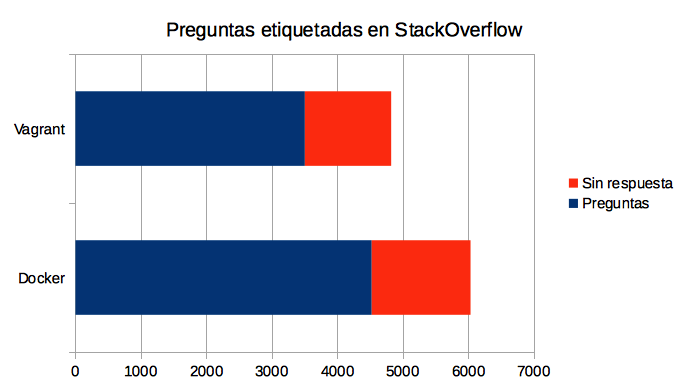
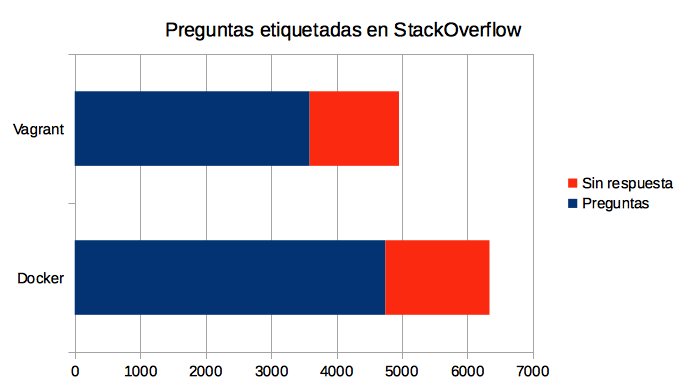
Set images for english.

diff --git a/en/blog/_posts/15-06-30-2015-trends-configuration-management.md b/en/blog/_posts/15-06-30-2015-trends-configuration-management.md
@@ -14,7 +14,7 @@ This paper shows the status of some tools that support the **_SCM_** from the da
 
 ## Software Configuration Management Activities
 
-The classic definition of activities described by **_Roger S. Presman_** in his book **_"Ingeniería de Software: Un enfoque práctico"_** are:
+The classic definition of activities described by **_Roger S. Presman_** in his book **_"Software Engineering: A Practical Approach"_** are:
 
 * Configuration identification
 * Change control
@@ -37,7 +37,7 @@ Both definitions are correct in my opinion, each with its own focus. In this doc
 **_Systems analyzed:_**
 <a target="_blank" href="https://subversion.apache.org/">Subversion</a>, <a href="https://git-scm.com/" target="_blank">Git</a>, <a href="https://mercurial.selenic.com/" target="_blank">Mercurial</a>, <a href="http://www.nongnu.org/cvs/" target="_blank">CVS</a>.
 
-<img src="{{ site.baseurl }}/images/150619/subversion-mercurial-git-cvs.png" title="Sistemas de control de versiones - Google Trends" name="Sistemas de control de versiones - Google Trends" /><img src="{{ site.baseurl }}/images/150619/stackoverflow-versioncontrol-systems.png" title="Sistemas de control de versiones - StackOverflow" name="Sistemas de control de versiones - StackOverflow" />
+<img src="{{ site.baseurl }}/images/150619/subversion-mercurial-git-cvs-en.png" title="Sistemas de control de versiones - Google Trends" name="Sistemas de control de versiones - Google Trends" /><img src="{{ site.baseurl }}/images/150619/stackoverflow-versioncontrol-systems-en.png" title="Sistemas de control de versiones - StackOverflow" name="Sistemas de control de versiones - StackOverflow" />
 
 **_Git_** shows a greater number of registration in both graphs. These values reflect the popularity and acceptance of this system of version control. Among the main features of this system are its integrity of information and speed.
 
@@ -47,7 +47,7 @@ Both definitions are correct in my opinion, each with its own focus. In this doc
 **_Tools analyzed:_**
 <a href="https://wiki.archlinux.org/index.php/Gitosis" target="_blank">Gitosis</a>, <a href="http://gitolite.com/gitolite/index.html" target="_blank">Gitolite</a>.
 
-<img src="{{ site.baseurl }}/images/150619/gitolite-gitosis.png" title="Gitolite-Gitosis - Google Trends" name="Gitolite-Gitosis - Google Trends" /> <img src="{{ site.baseurl }}/images/150619/stackoverflow-gitolite-gitosis.png" title="Gitolite-Gitosis - StackOverflow" name="Gitolite-Gitosis - StackOverflow" />
+<img src="{{ site.baseurl }}/images/150619/gitolite-gitosis-en.png" title="Gitolite-Gitosis - Google Trends" name="Gitolite-Gitosis - Google Trends" /> <img src="{{ site.baseurl }}/images/150619/stackoverflow-gitolite-gitosis-en.png" title="Gitolite-Gitosis - StackOverflow" name="Gitolite-Gitosis - StackOverflow" />
 
 **_Gitolite_** has the greatest records to perform the analysis. The high level of granularity of this system makes it a powerful tool when you want to establish the safety of source code repositories.
 
@@ -87,7 +87,7 @@ Construction tools allow agencies to organize and implement the necessary measur
 **_Tools analyzed:_**
 <a href="http://www.gnu.org/software/make/" target="_blank">Make</a>, <a href="http://ant.apache.org/" target="_blank">Ant</a>, <a href="http://www.scons.org/" target="_blank">Scons</a>, <a href="http://www.cmake.org/" target="_blank">CMake</a>, <a href="https://maven.apache.org/" target="_blank">Maven</a>, <a href="https://gradle.org/" target="_blank">Gradle</a>.
 
-<img src="{{ site.baseurl }}/images/150619/make-ant-maven.png" title="Sistemas de Construcción - Google Trends" name="Sistemas de Construcción - Google Trends" /><img src="{{ site.baseurl }}/images/150619/stackoverflow-buildtools.png" title="Sistemas de Construcción - StackOverflow" name="Sistemas de Construcción - StackOverflow" />
+<img src="{{ site.baseurl }}/images/150619/make-ant-maven-en.png" title="Sistemas de Construcción - Google Trends" name="Sistemas de Construcción - Google Trends" /><img src="{{ site.baseurl }}/images/150619/stackoverflow-buildtools-en.png" title="Sistemas de Construcción - StackOverflow" name="Sistemas de Construcción - StackOverflow" />
 
 **_Maven_** has for some time with the highest popularity. Figures are largely due to the posibility to simply modeling the logic to be constructed. As a suggestion recommend not to lose sight of **_Gradle_**. This tool has been adopted by teams like Eclipse to make their buildings.
 
@@ -99,7 +99,7 @@ In general the intention is to establish the same scenario: _programming machine
 
 As recommended elements 2 systems that help standardize and share settings work environments quickly and reliably shown: <a href="https://www.docker.com/">Docker</a> y <a href="https://www.vagrantup.com/">Vagrant</a>.
 
-<img src="{{ site.baseurl }}/images/150619/docker-vagrant.png" title="Docker-Vagrant - Google Trends" name="Docker-Vagrant - Google Trends" /><img src="{{ site.baseurl }}/images/150619/stackoverflow-docker-vagrant.png" title="Docker-Vagrant - StackOverflow" name="Docker-Vagrant - StackOverflow" />
+<img src="{{ site.baseurl }}/images/150619/docker-vagrant-en.png" title="Docker-Vagrant - Google Trends" name="Docker-Vagrant - Google Trends" /><img src="{{ site.baseurl }}/images/150619/stackoverflow-docker-vagrant-en.png" title="Docker-Vagrant - StackOverflow" name="Docker-Vagrant - StackOverflow" />
 
 **_Docker_** shows higher rates in the charts analyzed. _Docker_ a version control system at operating system level. _Docker_ uses the philosophy of _Git_ but at a lower level. If you like **_Git_** you will like to use **_Docker_**. I recommend to review this tool.
 
@@ -110,8 +110,8 @@ In this area we have analyzed the project management systems.
 **_Tools analyzed:_**
 <a href="http://www.redmine.org/" target="_blank">Redmine</a>, <a href="https://www.atlassian.com/software/jira" target="_blank">Jira</a>, <a href="https://www.mantisbt.org/" target="_blank">Mantis BT</a>, <a href="http://trac.edgewall.org/" target="_blank">Trac</a>.
 
-<img src="{{ site.baseurl }}/images/150619/redmine-jira-mantis-trac.png" name="Control de Cambios - Google Trends" title="Control de Cambios - Google Trends" />
-<img src="{{ site.baseurl }}/images/150619/stackoverflow-jira-redmine-mantis-trac.png" name="Control de Cambios - StackOverflow" title="Control de Cambios - StackOverflow" />
+<img src="{{ site.baseurl }}/images/150619/redmine-jira-mantis-trac-en.png" name="Control de Cambios - Google Trends" title="Control de Cambios - Google Trends" />
+<img src="{{ site.baseurl }}/images/150619/stackoverflow-jira-redmine-mantis-trac-en.png" name="Control de Cambios - StackOverflow" title="Control de Cambios - StackOverflow" />
 
 **_Jira_** and **_Redmine_** show higher levels in the analyzed graphs, both systems have excellent features. In my personal experience working with **_Redmine_** I have identified a very good adaptation (through plugins) with the other systems mentioned in the article.
 
@@ -122,7 +122,7 @@ Continuous integration systems allow, among other activities, executing the foll
 **_Tools analyzed:_**
 <a href="http://hudson-ci.org/" target="_blank">Hudson</a>, <a href="https://jenkins-ci.org/" target="_blank">Jenkins</a>, <a href="https://www.atlassian.com/software/bamboo" target="_blank">Atlassian Bamboo</a>.
 
-<img src="{{ site.baseurl }}/images/150619/hudson-jenkins-bamboo.png" title="Integración continua - Google Trends" name="Integración continua - Google Trends" /><img src="{{ site.baseurl }}/images/150619/stackoverflow-ci-systems.png" title="Integración continua - StackOverflow" name="Integración continua - StackOverflow" />
+<img src="{{ site.baseurl }}/images/150619/hudson-jenkins-bamboo-en.png" title="Integración continua - Google Trends" name="Integración continua - Google Trends" /><img src="{{ site.baseurl }}/images/150619/stackoverflow-ci-systems-en.png" title="Integración continua - StackOverflow" name="Integración continua - StackOverflow" />
 
 **_Jenkins_** shows the largest number of activities in the graphs. This system has numerous plugins that allow integrating external systems.
 
